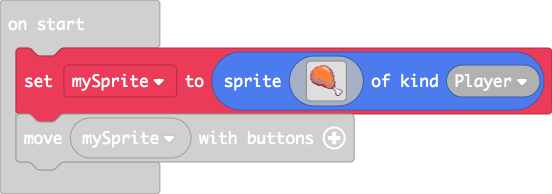
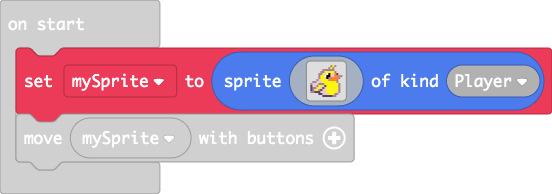
Update main.blocks, main.ts

Changed region(s): [[0.5543, 0.3093, 0.6467, 0.5258]]

diff --git a/main.ts b/main.ts
@@ -20,37 +20,21 @@ namespace myTiles {
 `
 }
 let mySprite = sprites.create(img`
-. . . . . . . . . . b b b b b b . . . . . . . . . . . . . . . . 
-. . . . . . . b b b 4 4 4 4 4 4 b b . . . . . . . . . . . . . . 
-. . . . . 2 2 4 4 4 4 4 d d d 4 4 4 b . . . . . . . . . . . . . 
-. . . . 2 4 4 4 4 4 4 4 4 d d d d 4 4 e . . . . . . . . . . . . 
-. . . 2 4 4 4 4 4 4 4 4 4 4 4 d d d 4 b e . . . . . . . . . . . 
-. . 2 4 4 4 4 4 4 4 4 4 4 4 4 4 4 d 4 4 b e . . . . . . . . . . 
-. 2 b 4 4 4 4 4 4 4 4 4 4 4 4 4 4 4 d 4 b e . . . . . . . . . . 
-. 2 b 4 4 4 4 4 4 4 4 4 4 4 4 4 4 4 4 4 b b e . . . . . . . . . 
-2 b b b 4 4 4 4 4 4 4 4 4 4 4 4 4 4 4 4 b b e . . . . . . . . . 
-2 b b b 4 4 4 4 4 4 4 4 4 4 4 4 4 4 4 4 b b e . . . . . . . . . 
-2 b b 4 b 4 4 4 4 4 4 4 4 4 4 4 4 4 4 4 4 b b e . . . . . . . . 
-2 b b 4 4 4 4 4 4 4 4 4 4 4 4 4 4 4 4 4 4 4 b e . . . . . . . . 
-2 b b 4 4 4 4 4 4 4 4 4 4 4 4 4 4 4 4 4 4 4 4 e . . . . . . . . 
-2 b b b 4 4 4 b b b 4 4 4 4 4 4 4 4 4 4 4 4 4 e . . . . . . . . 
-2 2 b b b 4 4 4 b b 4 b b 4 4 4 4 4 4 4 4 4 b e . . . . . . . . 
-. 2 b b b b b 4 4 b b b b 4 4 4 4 4 4 4 4 b b e . . . . . . . . 
-. 2 2 b b b b b b b b 4 4 b b b 4 4 4 4 4 4 b b e . . . . . . . 
-. . e e e b b b b b b b 4 4 b b b 4 4 4 4 4 4 b e . . . . . . . 
-. . . e e e e e b b b b b b b b 4 4 b 4 4 4 4 b e . . . . . . . 
-. . . . . e e e e e e 2 2 2 b b 4 4 b b b 4 b b e . . . . . . . 
-. . . . . . . e e e e e 2 2 2 b b 4 4 b b b b e e . . . . . . . 
-. . . . . . . . . . . . e 2 2 2 b b b b b b b e c . . . . . . . 
-. . . . . . . . . . . . . . e e 2 b b b b e e b d b . . . . . . 
-. . . . . . . . . . . . . . . . . e e e e e c d d d b . . . . . 
-. . . . . . . . . . . . . . . . . . . . . . . c d 1 1 b b b b . 
-. . . . . . . . . . . . . . . . . . . . . . . . c d 1 1 1 d b b 
-. . . . . . . . . . . . . . . . . . . . . . . . . b 1 1 1 1 1 c 
-. . . . . . . . . . . . . . . . . . . . . . . . . c 1 1 d d 1 c 
-. . . . . . . . . . . . . . . . . . . . . . . . . c d 1 d b c . 
-. . . . . . . . . . . . . . . . . . . . . . . . . c b 1 1 c . . 
-. . . . . . . . . . . . . . . . . . . . . . . . . . c c c . . . 
-. . . . . . . . . . . . . . . . . . . . . . . . . . . . . . . . 
+. . . . . . . . . . b 5 b . . . 
+. . . . . . . . . b 5 b . . . . 
+. . . . . . b b b b b b . . . . 
+. . . . . b b 5 5 5 5 5 b . . . 
+. . . . b b 5 d 1 f 5 d 4 c . . 
+. . . . b 5 5 1 f f d d 4 4 4 b 
+. . . . b 5 5 d f b 4 4 4 4 b . 
+. . . b d 5 5 5 5 4 4 4 4 b . . 
+. b b d d d 5 5 5 5 5 5 5 b . . 
+b d d d b b b 5 5 5 5 5 5 5 b . 
+c d d b 5 5 d c 5 5 5 5 5 5 b . 
+c b b d 5 d c d 5 5 5 5 5 5 b . 
+c b 5 5 b c d d 5 5 5 5 5 5 b . 
+b b c c c d d d 5 5 5 5 5 d b . 
+. . . . c c d d d 5 5 5 b b . . 
+. . . . . . c c c c c b b . . . 
 `, SpriteKind.Player)
 controller.moveSprite(mySprite)
